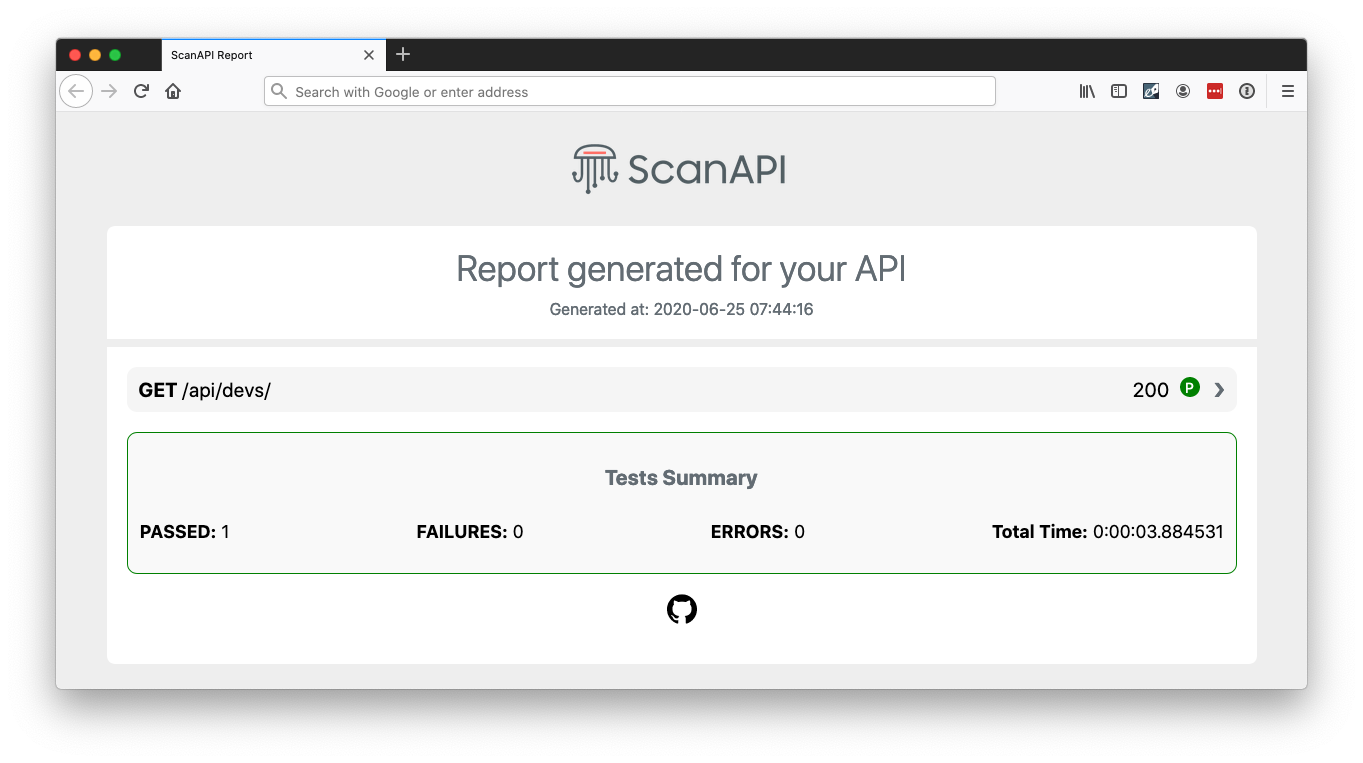
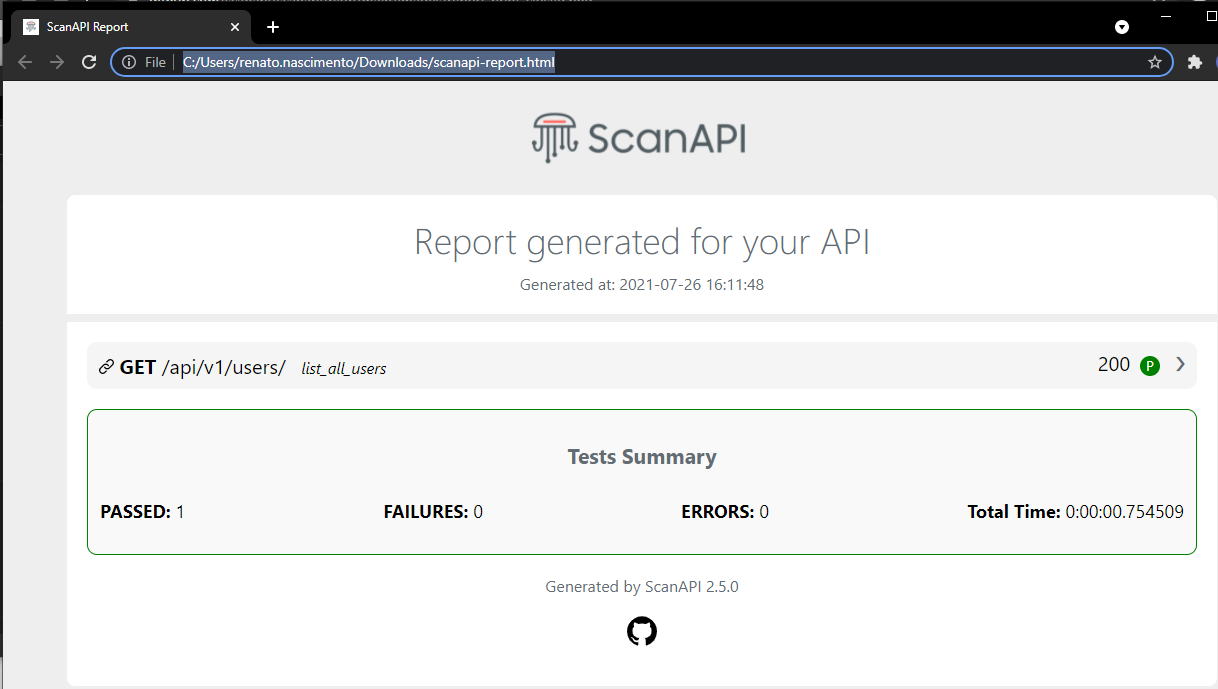
Updates README file with the new demo api version
* changing the image files for the new api
* updating the README images
* Update the README file images with the new demo api version

Closes #368

diff --git a/README.md b/README.md
@@ -56,10 +56,10 @@ For example:
 ```yaml
 endpoints:
   - name: scanapi-demo # The API's name of your API
-    path: http://demo.scanapi.dev/api/ # The API's base url
+    path: http://demo.scanapi.dev/api/v1 # The API's base url
     requests:
-      - name: list_all_devs # The name of the first request
-        path: devs/ # The path of the first request
+      - name: list_all_users # The name of the first request
+        path: users/ # The path of the first request
         method: get # The HTTP method of the first request
         tests:
           - name: status_code_is_200 # The name of the first test for this request
@@ -76,17 +76,17 @@ Then, the lib will hit the specified endpoints and generate a `scanapi-report.ht
 
 <p align="center">
   <img
-    src="https://raw.githubusercontent.com/scanapi/scanapi/master/images/report-print-closed.png"
+    src="https://raw.githubusercontent.com/scanapi/scanapi/main/images/report-print-closed.png"
     width="700",
     alt="An overview screenshot of the report."
   >
   <img
-    src="https://raw.githubusercontent.com/scanapi/scanapi/master/images/report-print-request.png"
+    src="https://raw.githubusercontent.com/scanapi/scanapi/main/images/report-print-request.png"
     width="700"
     alt="A screenshot of the report showing the request details."
   >
   <img
-    src="https://raw.githubusercontent.com/scanapi/scanapi/master/images/report-print-response.png"
+    src="https://raw.githubusercontent.com/scanapi/scanapi/main/images/report-print-response.png"
     width="700",
     alt="A screenshot of the report showing the response and test details"
   >
@@ -102,13 +102,13 @@ You can find complete examples at [scanapi/examples][scanapi-examples]!
 
 This tutorial helps you to create integration tests for your REST API using ScanAPI
 
-[![Watch the video](https://raw.githubusercontent.com/scanapi/scanapi/master/images/youtube-scanapi-tutorial.png)](https://www.youtube.com/watch?v=JIo4sA8LHco&t=2s)
+[![Watch the video](https://raw.githubusercontent.com/scanapi/scanapi/main/images/youtube-scanapi-tutorial.png)](https://www.youtube.com/watch?v=JIo4sA8LHco&t=2s)
 
 ## Contributing
 
 Collaboration is super welcome! We prepared the [Newcomers Guide][newcomers-guide] to help you in the first steps. Every little bit of help counts! Feel free to create new [GitHub issues][github-issues] and interact here.
 
-Let's build it together 🚀
+Let's build it together 🚀🚀
 
 [github-issues]: https://github.com/scanapi/scanapi/issues
 [newcomers-guide]: https://github.com/scanapi/scanapi/wiki/Newcomers
